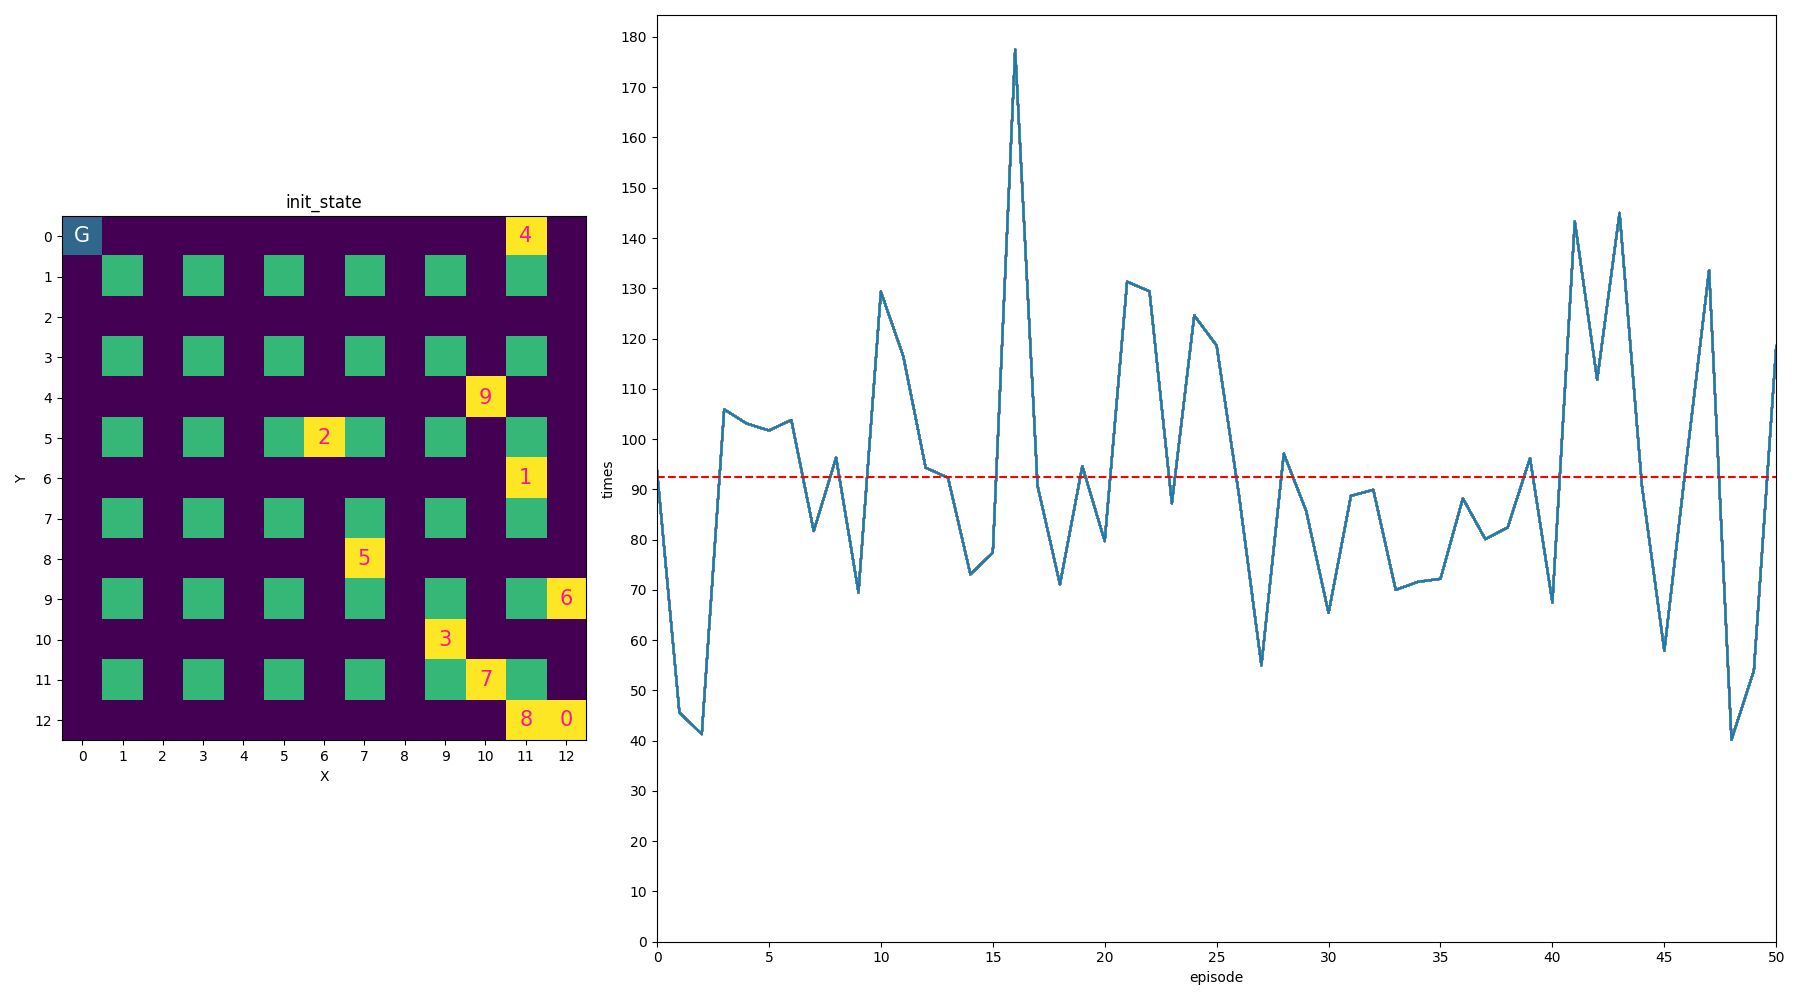
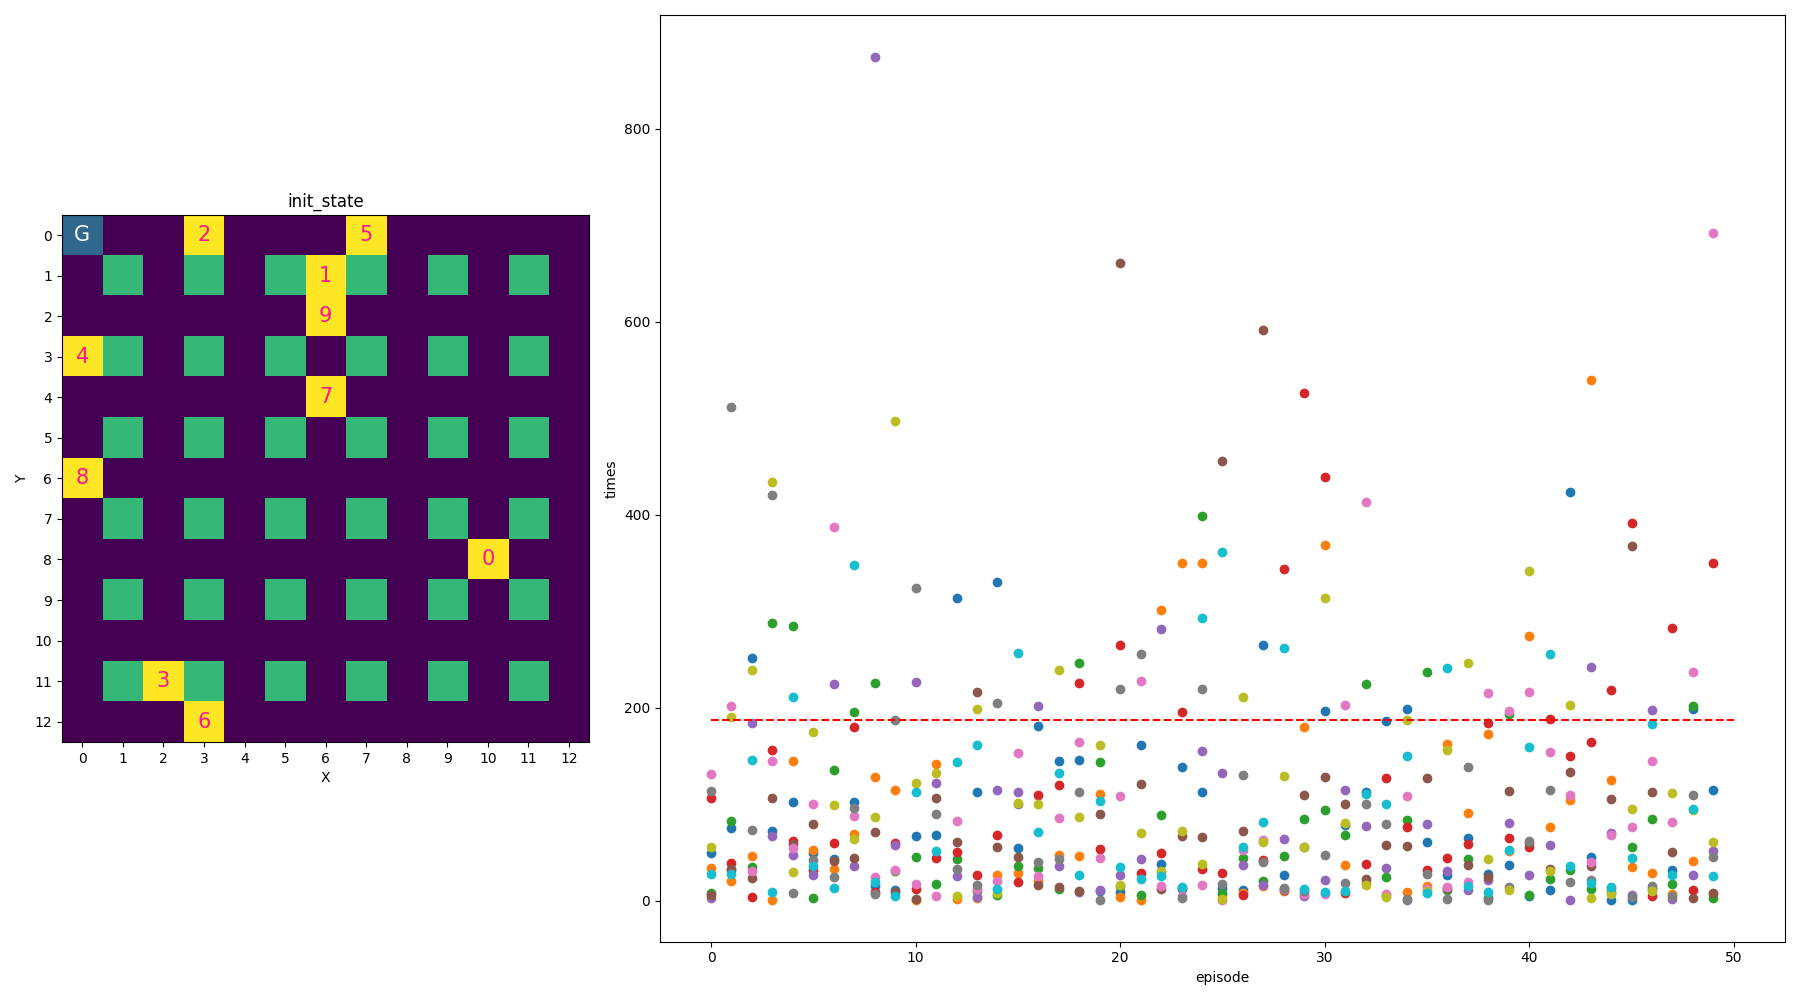
01/09 19:56

diff --git a/multi.py b/multi.py
@@ -10,7 +10,7 @@ from qlearning_agent import Summon
 from main import Plotting
 
 # 定数
-NB_EPISODE = 51   # エピソード数
+NB_EPISODE = 50   # エピソード数
 X_MAX = 13
 Y_MAX = 13
 POPULATION = 10
@@ -87,21 +87,22 @@ if __name__ == '__main__':
     ax2 = fig.add_subplot(
         gs[0, 1:],
         xlabel="episode",
-        ylabel="times",
-        xlim=(0,NB_EPISODE-1))
-    avg = episode_reward.mean(axis=1)
-    print(avg)
-    print(avg.mean())
-    lines = [ax2.plot(np.arange(NB_EPISODE),avg) for episode in range(NB_EPISODE)]
-    y_min, max_y = ax2.get_ylim()
-    ax2.set_ylim(0, max_y)
-    ax2.hlines(avg.mean(),0,NB_EPISODE,'red',linestyles='dashed')
+        ylabel="times")
+    #avg = episode_reward.mean(axis=1)
+    #print(avg)
+    #print(avg.mean())
+    #lines = [ax2.plot(np.arange(NB_EPISODE),avg) for episode in range(NB_EPISODE)]
+    #y_min, max_y = ax2.get_ylim()
+    #ax2.set_ylim(0, max_y)
+    print(np.count_nonzero(episode_reward < 187))
+    [ax2.scatter(np.arange(NB_EPISODE), episode_reward[:,id]) for id in range(POPULATION)]
+    ax2.hlines(187,0,NB_EPISODE,'red',linestyles='dashed')
     #ax2.legend(handles=lines[::-1], labels=[e for e in range(POPULATION)])
     #fig.legend()
     ax1.xaxis.set_major_locator(ticker.MultipleLocator())
     ax1.yaxis.set_major_locator(ticker.MultipleLocator())
-    ax2.xaxis.set_major_locator(ticker.MultipleLocator(5))
-    ax2.yaxis.set_major_locator(ticker.MultipleLocator(10)) 
+    #ax2.xaxis.set_major_locator(ticker.MultipleLocator(5))
+    #ax2.yaxis.set_major_locator(ticker.MultipleLocator(10)) 
     #Plotting.text(episode_reward,ax2,"deeppink")
     for index,value in enumerate(summon.agents):
         ax1.text(value.init_pos[1], value.init_pos[0], index, size=15, color='deeppink', ha='center', va='center')
